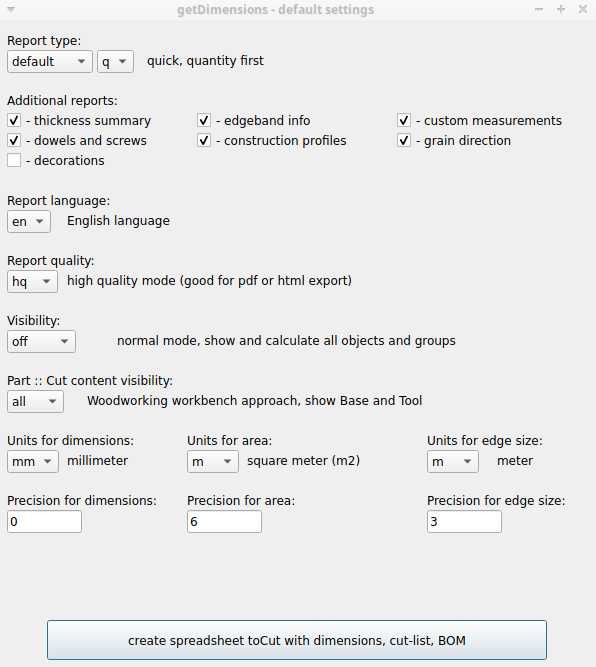
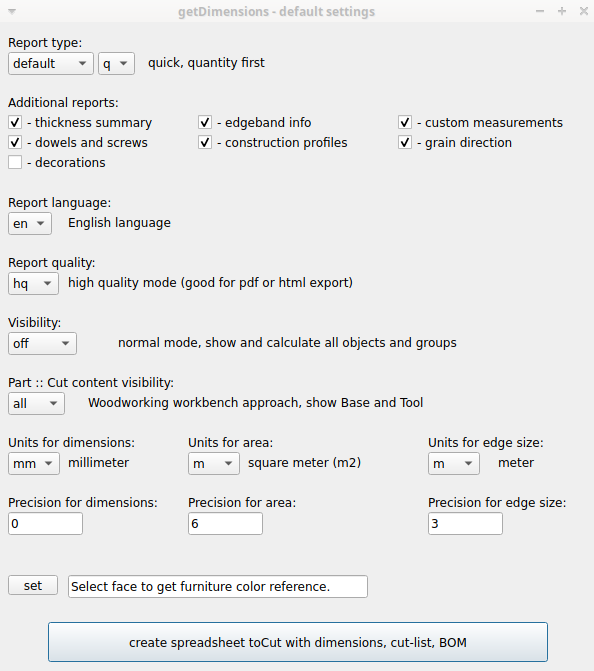
support for FreeCAD 1.0 color structure

diff --git a/getDimensions.py b/getDimensions.py
@@ -270,11 +270,11 @@ dbARQ = dict() # quantity
 dbARN = dict() # names
 dbARV = dict() # values
 
+gColorReference = (0.9686274528503418, 0.7254902124404907, 0.42352941632270813, 1.0)
 
 # ###################################################################################################################
 # Support for Qt GUI
 # ###################################################################################################################
-
 
 # ###################################################################################################################
 def showQtGUI():
@@ -595,16 +595,34 @@ def showQtGUI():
 			self.pufse.move(430, vLine + vLineNextRow)
 
 			# ############################################################################
-			# edgeband code
-			# here is different you set description to variable
+			# furniture color reference to calculate edgeband
 			# ############################################################################
 
 			# set line separator
 			vLine = vLine + vLineOffset
 
+			# button
+			self.fcrB = QtGui.QPushButton(translate('getDimensions', 'set'), self)
+			self.fcrB.clicked.connect(self.getColorReference)
+			self.fcrB.setFixedWidth(50)
+			self.fcrB.setFixedHeight(20)
+			self.fcrB.setAutoDefault(False)
+			self.fcrB.move(10, vLine + vLineNextRow + 3)
+
+			# text input
+			self.fcrE = QtGui.QLineEdit(self)
+			self.fcrE.setText(translate('getDimensions','Select face to get furniture color reference.'))
+			self.fcrE.setFixedWidth(300)
+			self.fcrE.move(70, vLine + vLineNextRow + 3)
+
+			# ############################################################################
+			# edgeband code
+			# here is different you set description to variable
+			# ############################################################################
+
 			# label
 			self.ecL = QtGui.QLabel(translate("getDimensions", "Edgeband code:"), self)
-			self.ecL.move(10, vLine + 3)
+			self.ecL.move(380, vLine + 3)
 
 			# options
 			self.ecList =tuple(sEColorDsc.keys())
@@ -612,17 +630,17 @@ def showQtGUI():
 			self.ecO.addItems(self.ecList)
 			self.ecO.setCurrentIndex(self.ecList.index(str(sEColorD)))
 			self.ecO.textActivated[str].connect(self.setEColor)
-			self.ecO.move(10, vLine + vLineNextRow + 3)
+			self.ecO.move(380, vLine + vLineNextRow + 3)
 
 			# text input label
 			self.ectiL = QtGui.QLabel(translate("getDimensions", "Custom:"), self)
-			self.ectiL.move(140, vLine + 3)
+			self.ectiL.move(500, vLine + 3)
 
 			# text input
 			self.ecti = QtGui.QLineEdit(self)
 			self.ecti.setText(str(sEColor))
 			self.ecti.setFixedWidth(75)
-			self.ecti.move(140, vLine + vLineNextRow + 3)
+			self.ecti.move(500, vLine + vLineNextRow + 3)
 
 			# edge color hide by default
 			self.ecL.hide()
@@ -634,17 +652,11 @@ def showQtGUI():
 			# buttons
 			# ############################################################################
 
-			# button - cancel
-			#self.cancelButton = QtGui.QPushButton(translate("getDimensions", "Cancel"), self)
-			#self.cancelButton.clicked.connect(self.onCancel)
-			#self.cancelButton.setAutoDefault(True)
-			#self.cancelButton.resize(200, 40)
-			#self.cancelButton.move(50, toolSH-50)
-			
 			# button - ok
 			info = translate("getDimensions", "create spreadsheet toCut with dimensions, cut-list, BOM")
 			self.okButton = QtGui.QPushButton(info, self)
 			self.okButton.clicked.connect(self.onOk)
+			self.okButton.setAutoDefault(True)
 			self.okButton.resize(toolSW-100, 40)
 			self.okButton.move(50, toolSH-50)
 
@@ -805,7 +817,7 @@ def showQtGUI():
 			# set precision
 			sPDE = sPrecisionDE[sUnitsEdge]
 			self.pufse.setText(str(sPDE))
-			
+
 		# here is different you set description to variable
 		def setEColor(self, selectedText):
 			global sEColor
@@ -813,9 +825,46 @@ def showQtGUI():
 			self.ecti.setText(str(tmpColor))
 		
 		# buttons
-		#def onCancel(self):
-		#	self.result = userCancelled
-		#	self.close()
+		def getColorReference(self):
+			
+			try:
+				obj = FreeCADGui.Selection.getSelection()[0]
+				face = FreeCADGui.Selection.getSelectionEx()[0].SubObjects[0]
+				
+				i = 1
+				for f in obj.Shape.Faces:
+					if str(f.BoundBox) == str(face.BoundBox):
+						index = i
+						break
+
+					i = i + 1
+				
+				try:
+					test = obj.ViewObject.ShapeAppearance
+					colorsSchema = 1
+				except:
+					colorsSchema = 0
+				
+				color = ""
+				if colorsSchema == 1:
+					try:
+						color = obj.ViewObject.ShapeAppearance[index-1].DiffuseColor
+					except:
+						color = obj.ViewObject.ShapeAppearance[0].DiffuseColor
+				else:
+					try:
+						color = obj.ViewObject.DiffuseColor[index-1]
+					except:
+						color = obj.ViewObject.DiffuseColor[0]
+				
+				global gColorReference
+				gColorReference = color
+				self.fcrE.setText(str(color))
+			
+			except:
+				self.fcrE.setText(translate('getDimensions','Select face to get furniture color reference.'))
+			
+
 		def onOk(self):
 			self.result = userOK
 			self.close()
@@ -1276,8 +1325,13 @@ def getEdgeBand(iObj, iW, iH, iL, iCaller="getEdgeBand"):
 	try:
 
 		# get faces colors
-		vFacesColors = iObj.ViewObject.DiffuseColor
-		vObjColor = iObj.ViewObject.ShapeColor
+		vFacesColors = []
+		try:
+			vFacesColors = iObj.ViewObject.ShapeAppearance
+			colorsSchema = 1
+		except:
+			vFacesColors = iObj.ViewObject.DiffuseColor
+			colorsSchema = 0
 
 		# edgeband for given object
 		vEdgeSum = 0
@@ -1290,7 +1344,10 @@ def getEdgeBand(iObj, iW, iH, iL, iCaller="getEdgeBand"):
 		# search for edgeband
 		i = 0
 		for c in vFacesColors:
-
+			
+			if colorsSchema == 1:
+				c = c.DiffuseColor
+		
 			# there can be more faces than 6 (Array Cube)
 			vFaceN.insert(i, "")
 			vFaceD.insert(i, 0)
@@ -1298,7 +1355,7 @@ def getEdgeBand(iObj, iW, iH, iL, iCaller="getEdgeBand"):
 
 			# if the edge face color is different than object color, 
 			# it means this is edgeband added by the user
-			if str(c) != str(vObjColor):
+			if str(c) != str(gColorReference):
 				
 				vFaceEdge = iObj.Shape.Faces[i].Length
 	
@@ -1427,9 +1484,15 @@ def setDB(iObj, iW, iH, iL, iCaller="setDB"):
 			# set edge db for total edge size
 			vEdge = getEdge(iObj, iW, iH, iL, iCaller)
 			dbE["total"] = dbE["total"] + vEdge
+			
+			colorsNum = 1
+			try:
+				colorsNum = len(iObj.ViewObject.ShapeAppearance)
+			except:
+				colorsNum = len(iObj.ViewObject.DiffuseColor)
 
 			# if color faces, not whole object color
-			if len(iObj.ViewObject.DiffuseColor) != 1:
+			if colorsNum != 1:
 				
 				# set edge db for edgeband edge size & faces
 				vEdge , dbEFN[vKey], dbEFD[vKey], dbEFV[vKey] = getEdgeBand(iObj, iW, iH, iL, iCaller)

diff --git a/README.md b/README.md
@@ -76,20 +76,6 @@
 * **Woodworking workbench documentation:** [Woodworking/Docs](https://github.com/dprojects/Woodworking/tree/master/Docs)
 * **YouTube playlist:** [Cut-list, BOM, dimensions](https://www.youtube.com/playlist?list=PLSKOS_LK45BCnwvCGt4klfF6uVAxfQQTy)
 
-# FreeCAD 1.0+ issues
-
-In FreeCAD 1.0 the color structure has been changed. Unfortunately, the color information of the entire object `.ViewObject.ShapeColor`, has also been broken. This tool uses this information to automatically determine the color of the edgeband.
-
-In FreeCAD 0.21.2, it is enough to change the color of the selected edge that you want to cover with veneer, and this tool will automatically compare the colors of all edges with the color of the entire object from `.ViewObject.ShapeColor` and create raport for edgeband and needed veneer size.
-
-Unfortunately, in FreeCAD 1.0 there is no way to solve this problem at macro or workbench level, because the information about the color of the object is returned incorrectly, and the correct value is not available anywhere. This problem occurs only for some panels, which causes incorrect data in the report.
-
-In the example below, the returned color value for the entire object is black, and it should be white. The white color is not available anywhere.
-
-![edgeband_issue](https://raw.githubusercontent.com/dprojects/getDimensions/master/Screenshots/edgeband_issue.png)
-
-For more details about FreeCAD 1.0+ support see: [Support for FreeCAD 1.0 and later](https://github.com/dprojects/Woodworking/issues/49)
-
 # License
 
 [MIT](https://github.com/dprojects/Woodworking/blob/master/LICENSE) for all Woodworking workbench content, so it is more free than FreeCAD.

diff --git a/Docs/README.md b/Docs/README.md
@@ -779,6 +779,9 @@ The edgeband is a very problematic matter. Mainly because the edge You want to c
 
 From the other side, during the furniture production process, there are always some leftover veneers for edge banding. But it is always better to have more than less veneer. If You buy a veneer for the entire edge, You can be sure that this veneer is enough for edge banding.
 
+> [!IMPORTANT]
+> In FreeCAD 1.0 the color structure has been changed. Unfortunately, the color information of the entire object `.ViewObject.ShapeColor` is no longer available. So user have to select face and get the reference furniture color for comparision.
+
 ___
 ### Edgeband - quick way
 
@@ -826,6 +829,9 @@ ___
     ![Edgeband007](https://raw.githubusercontent.com/dprojects/getDimensions/master/Docs/Screenshots/Edgeband007.png)
 
 	**Note:** This feature not working for multi-color furniture. To determine the edgeband color the macro compare the `face` color with `object color`. If You want to generate report for multi-color furniture just organize You furniture parts in folders and use `Visibility` to generate report for each color. 
+
+> [!IMPORTANT]
+> You have to add face color for PartDesign::Pad not to the final object. 
 
 ___
 ## Dowels, pilot holes, countersinks
